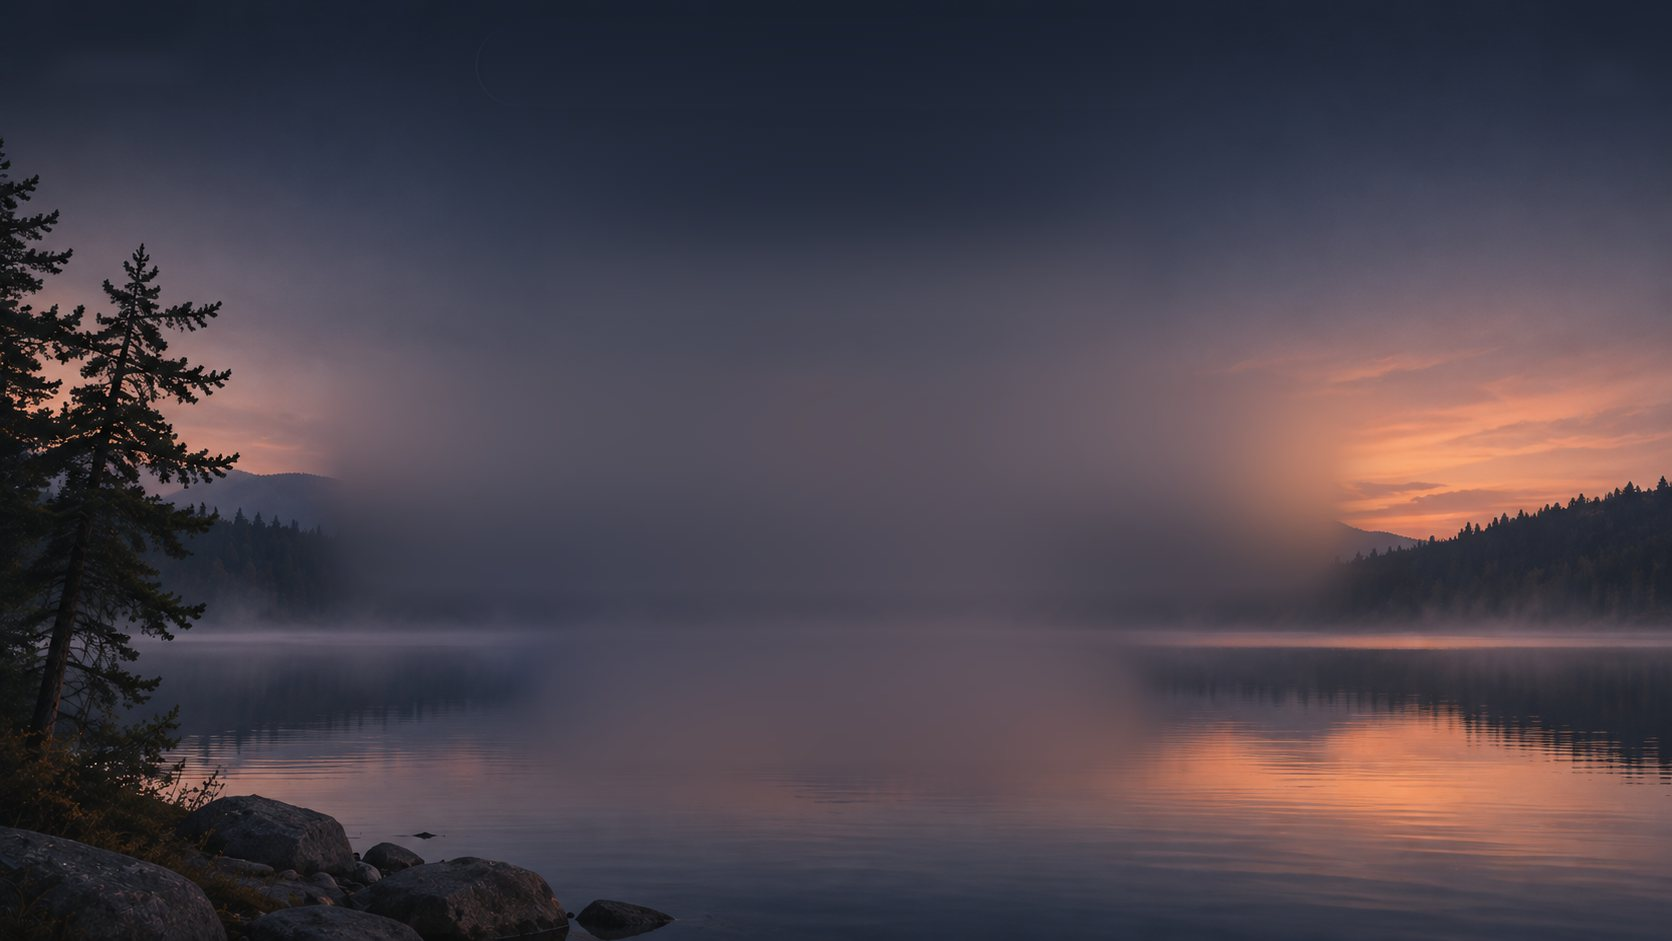
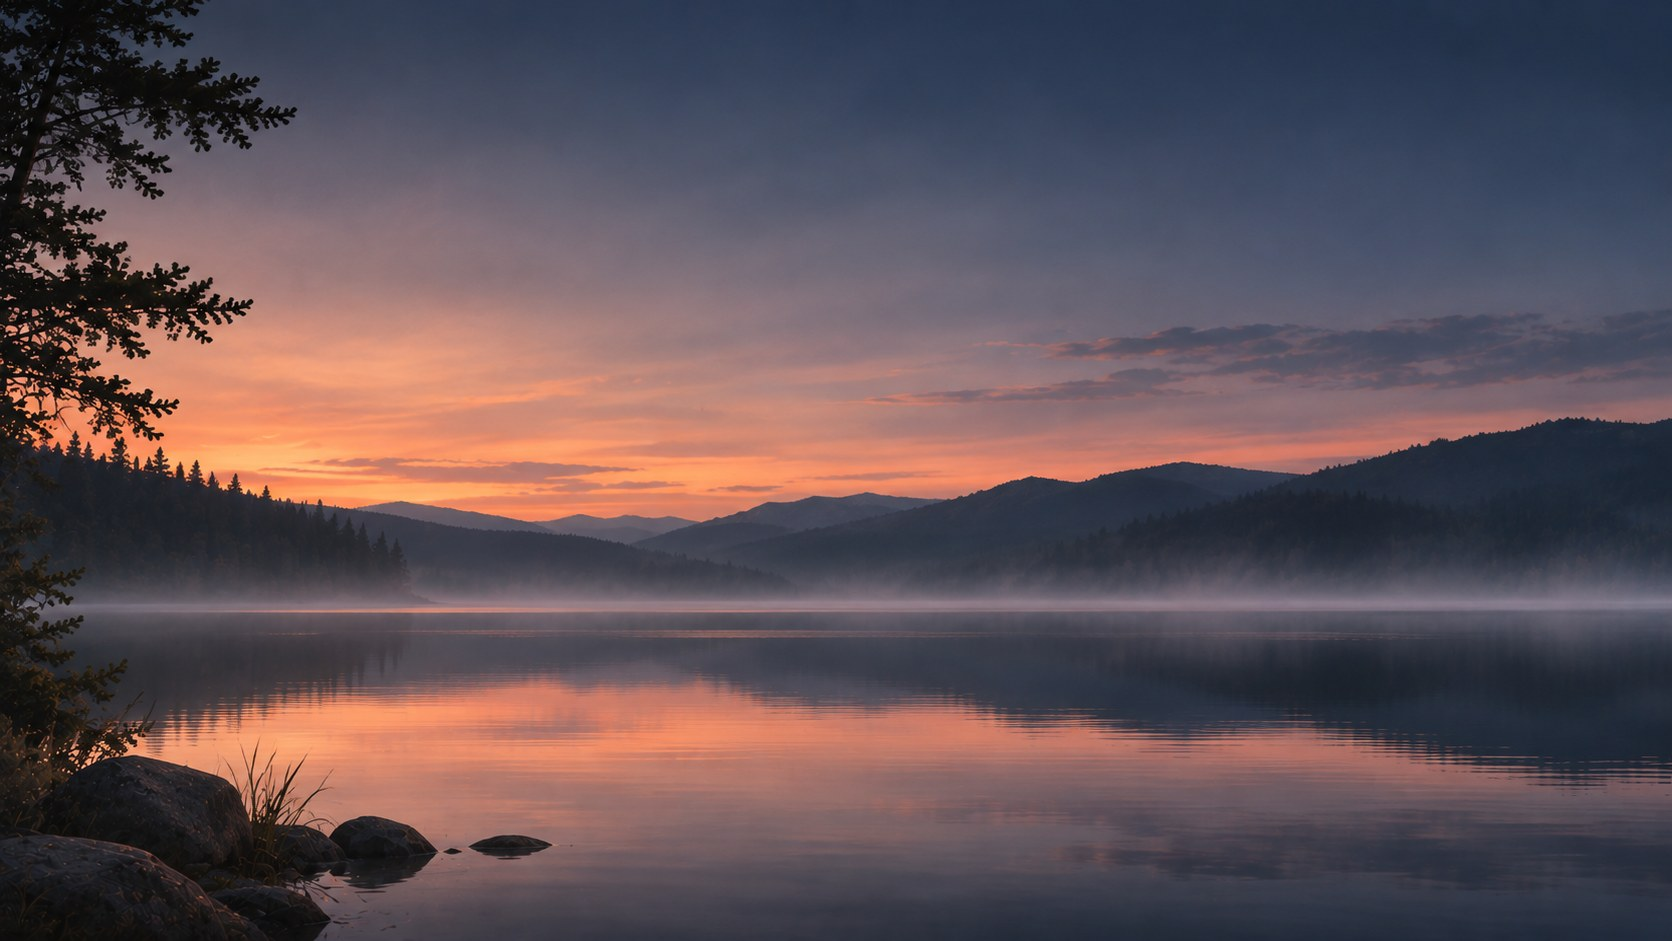
Clean pictures for Break and the Library (0.74.2)
The owner's clean lake and cabin scenes replace the versions with the
interface painted out. Home keeps the mountains.

Claude-Session: https://claude.ai/code/session_01SjDZZ75Dr81gmM2iqGfBXN

diff --git a/docs/ROADMAP.md b/docs/ROADMAP.md
@@ -82,6 +82,7 @@ Validate study sessions with real students before investing heavily in learning 
 | — | **The librarian v1 (0.19.0):** for signed-in accounts (free has a small daily allowance). Requests vs plain searches; better YouTube searches, a short note, at most one question as choices; picks from YouTube's own results, grouped with reasons; aim memory kept in the browser. **Needs the real-YouTube quality check** (does ranking from titles and snippets pick well?) | Built and tested on stand-in pages |
 | — | **Design your YouTube (0.48, Free):** a configurator in place of the settings list: Home ("What should greet you?": a clean page, videos from channels you choose, or the feed), Shorts (hide, only from selected channels, all), Watching, each changing a live sketch of YouTube (your own topics' videos), click the preview to change that part, before-and-after, one Apply. First run walks through the stages; later, any stage opens directly. No "watch freely" option (decided: Aim always asks what you're here for); no schedules yet; Timing left out of the designer for now (limits stay in More settings) | Built and tested on stand-in pages and with real YouTube thumbnails |
 | — | **Aim Homeschool, parent website MVP (0.47, pilot):** PARENT_WEBSITE.md §13 built: parent and student profiles (levels per subject; students have no logins, their Chrome is paired with a one-time code), the curriculum from the family's own (organized by AI, never invented; edited, prerequisite warnings, baseline comparison, approved versions), weekly plans proposed from the approved curriculum and approved as a week (edits after approval wait for approval again; plain-language changes; videos by link), preferred channels per subject with grouped gap decisions, projects four weeks ahead with one materials list, and objective-level progress from evidence. The student's Today comes from the approved day. Not yet: Portfolio, Library, parent-led TeachBack guides, field trips; a Homeschool price in Stripe. | Built and tested end to end against a stand-in server (website, extension, SQL on Postgres). **Before real families:** children's privacy and legal design, upload terms and takedown process, lawyer review; then SETUP.md Part 11 |
+| — | **Clean pictures (0.74.2):** the owner's clean lake and cabin scenes replace the versions with the interface painted out. |
 | — | **Dawn (0.74):** the owner's second look replaces the library: mountains at dawn for Home, a lake for Break, a cabin window for the Library and Aim's pages; navy glass, bold sans titles, cream and copper, with a quiet color for each way in. The first card is Start a challenge until something's in progress, then Continue Learning. Break is three length cards (5, 15, 30 minutes) and Start Break; breaks everywhere offer 5, 15 and 30. The Library opens on the search and three cards: My Library (the shelf), Learning Plans (your paths) and Collections (topic tiles, videos saved for later and references). |
 | — | **The reading room (0.73):** Aim takes the look of the owner's mockups. YouTube's homepage becomes one full-screen scene (a library hall, a cloister garden for Break) with Home, Break and Library along the top and you at the right. Home is a greeting, the search, and Continue Learning (the aim you're on and your paths, each with its lesson and percent), the Daily Challenge (one focused problem a day from your interests, kept for the day) and the Weekly Challenge (a larger one, up to two hours, kept for the week). Break holds the break lengths, Explore & Learn and Saved for later. The Library is subject tiles with counts over the shelf. Every Aim page has the same bar and dark-wood colors. Pictures: scenes/ (from the owner's mockups; replaceable). |
 | — | **Interests, goals and paths (0.72):** onboarding asks what you're curious about and the goal behind each (as many as you like; "just curious" belongs to Explore). Each interest with a goal gets a path from Aim's server: the big picture as ordered units (each building on the last, with an estimated number of lessons), the next five lessons in detail, steps outside Aim where a goal needs them (a medical, a written test) and who to confirm requirements with; ordered, never scheduled. Lessons run as challenges through the guess, watch, explain loop; the next five are written from the evidence when they run out. The homepage is Focus, Break and Library at the top, the search, Start a challenge (a small window of your interests with progress: percent of the path and lessons to the next checkpoint, and +) and Explore (now holding the one-off challenge finder). A path page shows the whole plan. Paths are kept in this browser (not yet synced). |

diff --git a/TESTING.md b/TESTING.md
@@ -502,6 +502,7 @@ Needs a signed-in account and the server redeployed to draft paths.
 - [ ] Break: a lake at dawn. **5 Minutes · 15 Minutes · 30 Minutes** as cards (15 picked to start; longer than today's leisure left can't be picked), then **Start Break**, a Custom length, and further down "Or explore something new" and Saved for later. Breaks everywhere offer 5, 15 and 30 minutes.
 - [ ] Library (0.74.1): a lantern-lit cabin, "Library", "Your personal collection of ideas, lessons, and challenges.", the search (it searches whichever part is open), then **My Library** (the shelf, with All/In progress/Completed), **Learning Plans** (your paths, each with its lesson and percent, opening its whole plan) and **Collections** (your topics as picture tiles, a tile showing that subject's books in My Library; your videos saved for later, watching one a one-video break, with × to remove; and your references). Your aims and Learning record tabs are at the bottom.
 - [ ] Aim's other pages and the toolbar popup: the same navy and copper colors and bold headings; book covers keep their serif.
+- [ ] The pictures are sharp all the way across (0.74.2): mountains behind Home, the lake behind Break, the cabin behind the Library and Aim's other pages.
 
 ## Known issues (not regressions)
 

diff --git a/scenes/README.md b/scenes/README.md
@@ -9,8 +9,7 @@ The pictures behind Aim's homepage on YouTube and Aim's own pages (0.73; dawn, 0
 | `library.jpg` | Aim's pages: the Library clearest, darker behind Settings and the rest (a lantern-lit cabin with a window on the mountains) |
 | `subjects/<subject>.jpg` | A subject's tile in the Library's Collections and a learning plan's picture. Subject ids are `SUBJECTS` in store.js; a subject without a picture shows its engraved emblem (covers.js) |
 
-They come from the owner's own design mockups (November 2026). `home.jpg` was supplied clean; the
-others had the interface painted out of the middle of the scene, which sits under Aim's panels, so
-it's left soft on purpose. To use cleaner versions, replace a file with one of the same name: about
-1700×950 or larger for the scenes, about 2:1 for subjects, JPEG. Only pictures the project owns or
+The three scenes are the owner's own pictures (November 2026), supplied clean, without an interface.
+The subject pictures were cut from the owner's earlier mockups. To use another picture, replace a
+file with one of the same name: about 1700×950 or larger for the scenes, about 2:1 for subjects, JPEG. Only pictures the project owns or
 has a license for go here.
